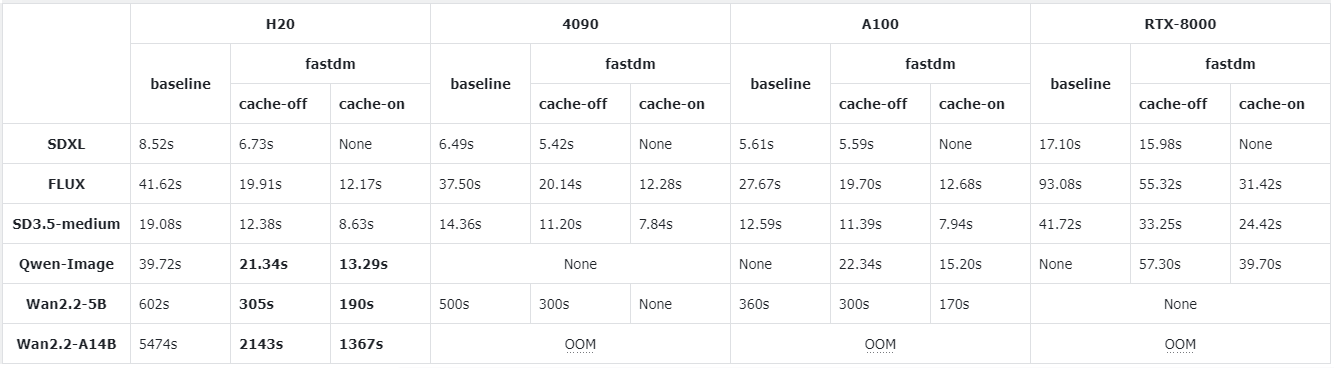
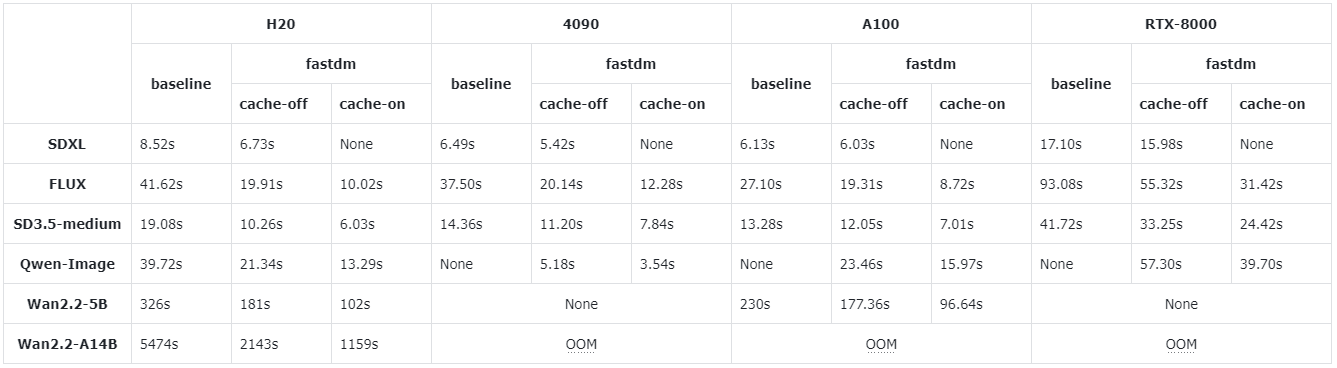
update perf data and graph

diff --git a/README.md b/README.md
@@ -10,8 +10,10 @@ FastDM对显存占用也进行了优化，较大的Qwen-Image系列模型，24GB
 
 ![image](./assets/architecture.PNG)
 
-更多内容请参考[introduction](./doc/introduction.md)
+更多内容请参考[introduction](./doc/introduction.md)  
 
+FastDM模型加速效果（更多内容请参考[性能详细数据](#perf)）：
+![alt text](./assets/perf_graph.PNG)
 ### 模型支持
 业界主要有两种架构： UNET 或者 DiT, FastDM对这两种都进行了适配。
 #### UNET-architecthre
@@ -120,11 +122,13 @@ text2video：
     
   wan-A14B：**height = 720，width = 1280，num_frames = 81，num_inference_steps = 40**
 
-**注**：以下数据中，qwen-image与wan的H20性能数据使用了[SageAttention](https://github.com/thu-ml/SageAttention), 其他模型和卡型都未使用。SageAttention性能比torch-sdpa算子有较大提升，详情可参考该[开源工程](https://github.com/thu-ml/SageAttention)。如果环境中安装了SageAttention，FastDM的CUDA-backend模式下会直接调用。
+**注**：以下数据中，H20性能数据使用了[SageAttention](https://github.com/thu-ml/SageAttention)。SageAttention性能比torch-sdpa算子有较大提升，详情可参考该[开源工程](https://github.com/thu-ml/SageAttention)。如果环境中安装了SageAttention，FastDM的CUDA-backend模式下会直接调用。
 
 Qwen-Image的A100与RTX-8000数据使能了`--oom-resolve`以解决OOM问题
 
+<a id="perf"></a>
 ![image](./assets/perf.PNG)
+
 
 ### 模型精度测试
 
